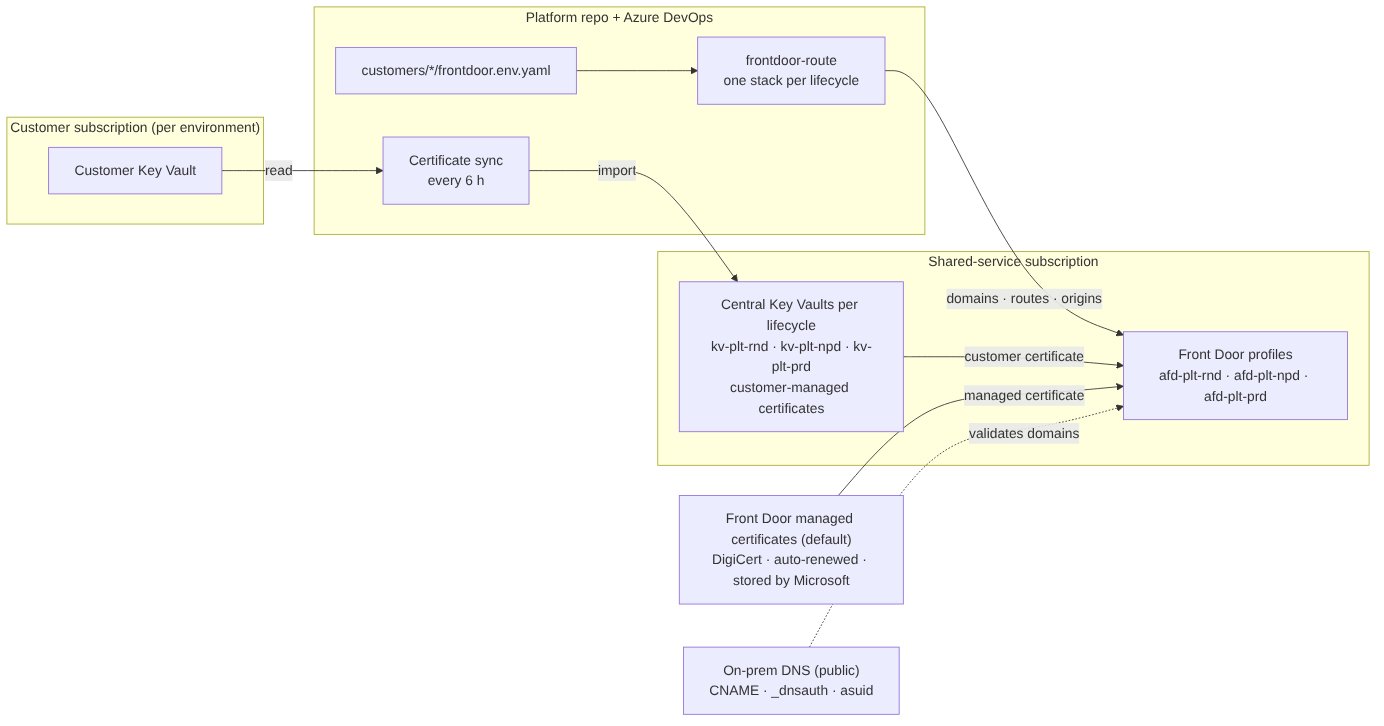
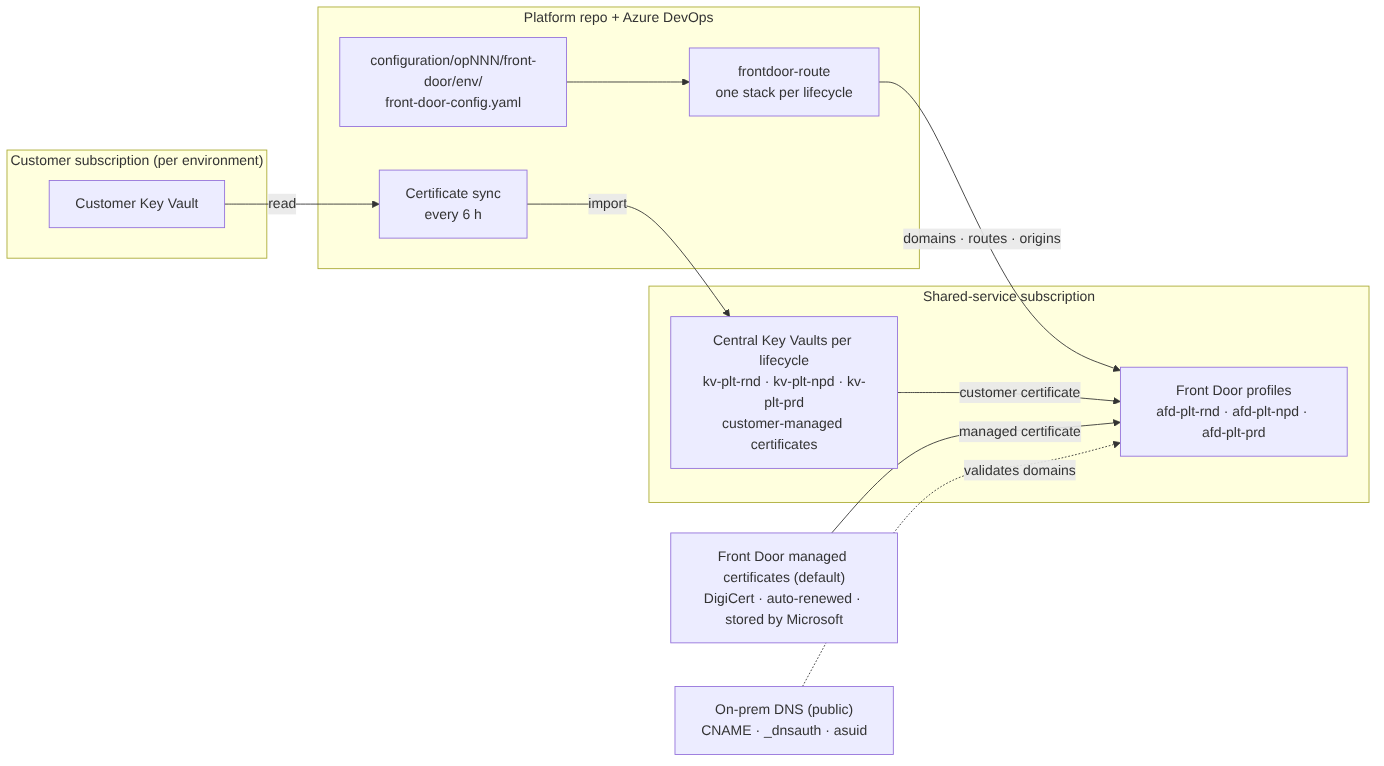
Update Front Door configuration schema and documentation for clarity and consistency

Changed region(s): [[0.0, 0.0, 0.9942, 0.8485], [0.4971, 0.8788, 0.6525, 1.0]]

diff --git a/architecture/frontdoor/frontdoor_design.md b/architecture/frontdoor/frontdoor_design.md
@@ -73,7 +73,7 @@ flowchart LR
 ```mermaid
 flowchart LR
     subgraph ops["Platform repo + Azure DevOps"]
-        cfg["customers/*/frontdoor.env.yaml"]
+        cfg["configuration/opNNN/front-door/env/<br/>front-door-config.yaml"]
         route["frontdoor-route<br/>one stack per lifecycle"]
         sync["Certificate sync<br/>every 6 h"]
     end
@@ -115,7 +115,7 @@ Rendered versions: `frontdoor_architecture_traffic.png` and `frontdoor_architect
 | Certificates | Per application and environment: Front Door managed certificate (DigiCert, default) or the customer's own certificate, copied from the customer Key Vault to the central Key Vault of its lifecycle. |
 | App Service | Custom domain added (host header preserved), no certificate binding. |
 | Non-prod access | WAF allows corporate IP ranges only. |
-| Self-service | One file per customer per environment (`frontdoor.<env>.yaml`) in the platform repo, changed through pull requests and combined during validation. |
+| Self-service | One file per customer per environment (`configuration/<customer>/front-door/<environment>/front-door-config.yaml`) in the platform repo, changed through pull requests and combined during validation. |
 
 ---
 
@@ -141,12 +141,12 @@ Flat names under `msdhn.com` for every environment. Example for application `kmi
 
 | Item | One per | Owned by stack |
 |---|---|---|
-| Profile | Environment group (np, prd) | shared-service |
-| Endpoint | np; ppd and prd in the prod profile | shared-service |
+| Profile | Lifecycle (`afd-plt-rnd`, `afd-plt-npd`, `afd-plt-prd`) | shared-service |
+| Endpoint | `fde-plt-rnd`, `fde-plt-npd`; `fde-plt-ppd` and `fde-plt-prd` in the prd profile | shared-service |
 | WAF policies | Profile / environment | shared-service |
 | Security policies (WAF policy ↔ domains) | `frontdoor-route` stack | frontdoor-route |
 | Custom domain | Application and environment | frontdoor-route |
-| Route | Application and environment | frontdoor-route |
+| Route | Host name (application and environment) | frontdoor-route |
 | Origin group and origin | Application and environment | frontdoor-route |
 | Secret (reference to the central Key Vault certificate) | Application and environment with a customer certificate | frontdoor-route |
 
@@ -155,6 +155,23 @@ Flat names under `msdhn.com` for every environment. Example for application `kmi
 - No rule sets and no wildcard domains: every host has its own route to its own origin group.
 - Origin host header is empty, so the public host name is passed through to the App Service.
 - Disabling an endpoint takes every application on it offline; a single application is taken offline by disabling its route.
+
+### One route per host name
+
+Every host name has exactly one route: one route per application **per environment**. Each route has one custom domain, the pattern `/*` and its own origin group. Example for `kmi`:
+
+| Host | Route | Origin group → App Service |
+|---|---|---|
+| `kmi-rnd.msdhn.com` | `rt-kmi-rnd` | `og-kmi-rnd` → `app-kmi-rnd` |
+| `kmi-dev.msdhn.com` | `rt-kmi-dev` | `og-kmi-dev` → `app-kmi-dev` |
+| `kmi-tst.msdhn.com` | `rt-kmi-tst` | `og-kmi-tst` → `app-kmi-tst` |
+| `kmi-ppd.msdhn.com` | `rt-kmi-ppd` | `og-kmi-ppd` → `app-kmi-ppd` |
+| `kmi.msdhn.com` | `rt-kmi-prd` | `og-kmi-prd` → `app-kmi-prd` |
+
+- Front Door selects the route by the request's host name: the host matches a custom domain, and each domain belongs to exactly one route. No rule sets or path matching are needed to separate applications.
+- Routes are not shared between host names: a route with several domains sends them all to the same origin group, while every environment has its own App Service.
+- Disabling one route takes one application offline in one environment, without affecting anything else.
+- Because hosts and routes map 1:1, the Premium limit of about 200 routes per profile is also the limit on host names per profile.
 
 ### Why pre-production sits on the prod profile
 
@@ -389,7 +406,7 @@ Each origin group has a single origin, so probes can't fail over to anything. Pr
 
 ---
 
-## Self-service: `frontdoor.<env>.yaml`
+## Self-service: `front-door-config.yaml`
 
 Customers add, change and remove their applications through pull requests in the platform repo.
 
@@ -398,66 +415,84 @@ Customers add, change and remove their applications through pull requests in the
 One file per customer per environment:
 
 ```
-customers/
-  customer-x/
-    frontdoor.dev.yaml
-    frontdoor.tst.yaml
-    frontdoor.ppd.yaml
-    frontdoor.prd.yaml
-  customer-y/
-    frontdoor.dev.yaml
-    frontdoor.prd.yaml
+configuration/
+  op001/
+    front-door/
+      rnd/front-door-config.yaml
+      dev/front-door-config.yaml
+      tst/front-door-config.yaml
+      ppd/front-door-config.yaml
+      prd/front-door-config.yaml
+  op002/
+    front-door/
+      dev/front-door-config.yaml
+      prd/front-door-config.yaml
 ```
 
-- The customer is taken from the **folder name** and the environment from the **file name**, never from fields in the file.
-- An environment file only exists if the customer uses that environment.
-- Branch policy with path-based required reviewers: a customer team can only change its own folder; the platform team approves every pull request. Changes to `frontdoor.prd.yaml` files can have their own reviewers and always go through the prod approval gate.
+- Customers are identified by a number: `op001`, `op002`, …
+- Path pattern: `configuration/<customer>/front-door/<environment>/front-door-config.yaml`.
+- The customer is taken from the **customer folder** and the environment from the **environment folder**; `metadata.customer` and `metadata.environment` in the file must match them.
+- An environment folder only exists if the customer uses that environment.
+- Branch policy with path-based required reviewers: a customer team can only change its own `configuration/<customer>/` folder; the platform team approves every pull request. Changes under `*/front-door/prd/` can have their own reviewers and always go through the prod approval gate.
 - Each `frontdoor-route` stack reads only the files of its own environments, so a non-prod change never touches a prod deployment.
 
-### Schema
+### File format
 
 ```yaml
-# customers/customer-x/frontdoor.prd.yaml
-apps:
-  - name: kim
-    appService: /subscriptions/.../sites/kim-prd
-    enabled: true
-  - name: kom
-    appService: /subscriptions/.../sites/kom-prd
-    enabled: true
-    isFrontDoorManagedCertificate: false
-    keyVaultName: kv-customerx-prd
-    certificateName: kom-msdhn-com
+# configuration/op001/front-door/prd/front-door-config.yaml
+apiVersion: platform.msdhn.com/v1
+kind: FrontDoorConfiguration
+metadata:
+  customer: op001
+  environment: prd
+spec:
+  applications:
+    - name: kmi                 # kmi.msdhn.com
+      appService: /subscriptions/.../sites/app-kmi-prd
+      enabled: true
+    - name: kom                 # kom.msdhn.com
+      appService: /subscriptions/.../sites/app-kom-prd
+      enabled: true
+      isFrontDoorManagedCertificate: false
+      keyVaultName: kv-op001-prd
+      certificateName: kom-msdhn-com
 ```
 
 ```yaml
-# customers/customer-x/frontdoor.dev.yaml
-apps:
-  - name: kim
-    appService: /subscriptions/.../sites/kim-dev
-    enabled: false
+# configuration/op001/front-door/dev/front-door-config.yaml
+apiVersion: platform.msdhn.com/v1
+kind: FrontDoorConfiguration
+metadata:
+  customer: op001
+  environment: dev
+spec:
+  applications:
+    - name: kmi                 # kmi-dev.msdhn.com
+      appService: /subscriptions/.../sites/app-kmi-dev
+      enabled: false
 ```
 
 - An application listed in an environment file is deployed in that environment; `enabled: false` only turns its route off.
 - `isFrontDoorManagedCertificate` defaults to `true`. With `false`, `keyVaultName` and exactly one of `certificateName` or `secretName` are required; with `true` none of them is allowed.
-- The file format is defined by `frontdoor-configuration.schema.json` (`apiVersion: platform.msdhn.com/v1`, `kind: FrontDoorConfiguration`); samples are in `samples/customer-x/`.
+- The file format is defined by `frontdoor-configuration.schema.json` (`apiVersion: platform.msdhn.com/v1`, `kind: FrontDoorConfiguration`); samples are in `samples/configuration/op001/front-door/`.
 - An application removed from an environment file is deleted from that environment by Pulumi.
-- A platform-owned mapping decides where each environment goes: `dev, tst → afd-plt-np/fde-plt-np`, `ppd → afd-plt-prd/fde-plt-ppd`, `prd → afd-plt-prd/fde-plt-prd`.
+- A platform-owned mapping decides where each environment goes: `rnd → afd-plt-rnd/fde-plt-rnd`, `dev, tst → afd-plt-npd/fde-plt-npd`, `ppd → afd-plt-prd/fde-plt-ppd`, `prd → afd-plt-prd/fde-plt-prd`.
 - A platform-owned mapping of customer → allowed subscriptions per environment ensures an application only points at App Services in its own customer's subscriptions.
 
 ### Pull request validation
 
 Validation loads **all** environment files of **all** customers and combines them into one view per application (application → environments), then checks:
 
+- Path: matches `configuration/op<nnn>/front-door/<environment>/front-door-config.yaml`, with environment `rnd`, `dev`, `tst`, `ppd` or `prd`.
+- `metadata.customer` and `metadata.environment` match the folders.
 - Name: naming rules, not reserved, and owned by one customer only. The same name in two customers' folders, in any environment, is rejected.
-- File names: only `frontdoor.dev.yaml`, `frontdoor.tst.yaml`, `frontdoor.ppd.yaml`, `frontdoor.prd.yaml`.
 - No duplicate application within one environment file.
 - App Service exists in the customer's subscription for that environment.
 - For customer certificates: the Key Vault is in the customer's subscription for that environment, the certificate or secret exists, has a supported format (for secrets: content type PFX or PEM), matches the host name and meets the certificate requirements.
-- Profile limits are not exceeded (dev + tst on the non-prod profile, ppd + prd on the prod profile).
+- Profile limits are not exceeded (rnd on `afd-plt-rnd`, dev + tst on `afd-plt-npd`, ppd + prd on `afd-plt-prd`).
 - Warnings for an inconsistent application, for example present in `prd` but not in `ppd`, or removed from some environments but not others. Warnings don't block the pull request.
 - `pulumi preview` of the affected stacks and the DNS records to request are posted to the pull request.
-- A change to any `frontdoor.prd.yaml` requires the prod approval gate.
+- A change to any file under `*/front-door/prd/` requires the prod approval gate.
 
 One loader (read all files, combine, validate) is shared by the pull request validation and the Front Door stacks, so all read the files the same way. Each stack then takes only its own environments from the combined view.
 
@@ -489,7 +524,7 @@ App Service resources (host name binding, Private Link approval) stay in the spo
 
 | Input | Source |
 |---|---|
-| Customer configuration | `customers/*/frontdoor.<env>.yaml`, read with the shared loader (validate, combine, take this stack's environments) |
+| Customer configuration | `configuration/*/front-door/*/front-door-config.yaml`, read with the shared loader (validate, combine, take this stack's environments) |
 | Stack configuration | Environments handled by the stack (`np`: dev, tst; `ppd`: ppd; `prd`: prd), profile and endpoint names |
 | Shared resources | `StackReference` to `shared-service`: profile ID, endpoint IDs and host names, WAF policy IDs, central Key Vault ID of the lifecycle |
 
@@ -543,7 +578,7 @@ projects/core/frontdoor-route/
 
 ### Adding an application
 
-1. Customer opens a pull request adding the application to the environment files it needs (typically starting with `frontdoor.dev.yaml`); validation runs and posts the DNS records.
+1. Customer opens a pull request adding the application to the environment files it needs (typically starting with `configuration/<customer>/front-door/dev/front-door-config.yaml`); validation runs and posts the DNS records.
 2. After approval and merge, Pulumi creates the custom domain, origin group, origin and route, with the route **disabled**. With a customer certificate, the sync pipeline runs first so the certificate is in the lifecycle's central Key Vault before Pulumi creates the Front Door secret and domain.
 3. The spoke pipeline approves the Private Link connection on the App Service.
 4. The DNS records (CNAME, `_dnsauth`, `asuid`) are created on the DNS server.
